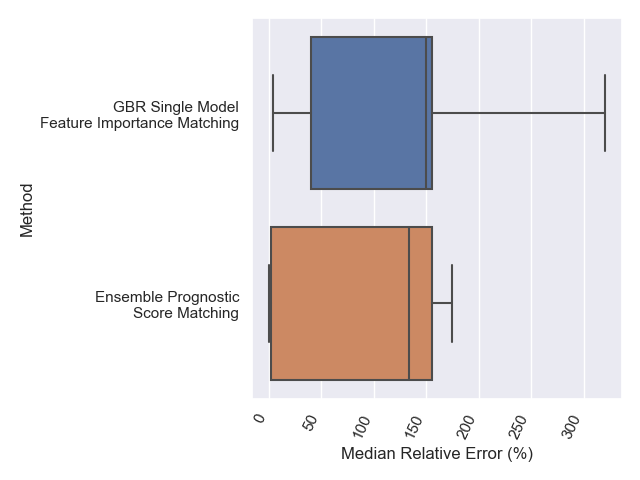
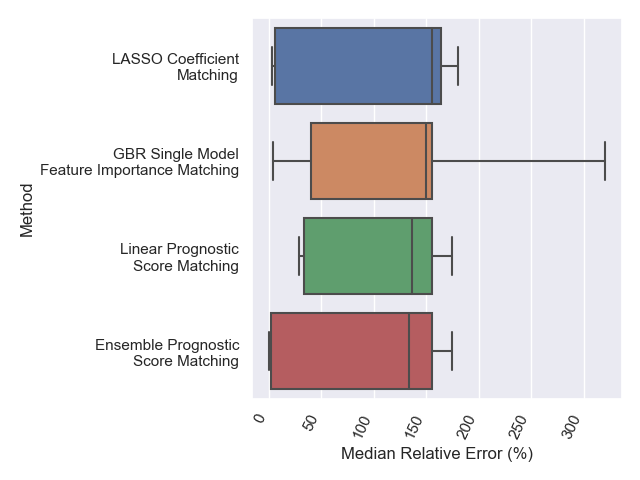
running on larger acic 2018 selection

diff --git a/Experiments/acic_error_and_runtime/cate_error.py b/Experiments/acic_error_and_runtime/cate_error.py
@@ -103,25 +103,45 @@ split_strategy = lcm.gen_skf  # save split strategy to use for all other methods
 with open(f'{save_folder}/split.pkl', 'wb') as f:
     pickle.dump(split_strategy, f)
 
-method_name = 'Tree Feature Importance Matching'
-start = time.time()
-with warnings.catch_warnings(record=True) as warning_list:
-    lcm = LCM_MF(outcome='Y', treatment='T', data=df_dummy_data,
-                 n_splits=n_splits, n_repeats=1,
-                 random_state=random_state)
-    lcm.gen_skf = split_strategy
-    lcm.fit(model='tree')
-    lcm.MG(k=k_est)
-    lcm.CATE(cate_methods=['mean'])
-times[method_name] = time.time() - start
-df_err = pd.concat([df_err,
-                    get_errors(lcm.cate_df[['avg.CATE_mean']],
-                               df_true[['TE']],
-                               method_name=method_name)
-                    ])
-print(f'\n{method_name} method complete: {time.time() - start}')
-summarize_warnings(warning_list, method_name)
-print()
+# method_name = 'Tree Feature Importance Matching'
+# start = time.time()
+# with warnings.catch_warnings(record=True) as warning_list:
+#     lcm = LCM_MF(outcome='Y', treatment='T', data=df_dummy_data,
+#                  n_splits=n_splits, n_repeats=1,
+#                  random_state=random_state)
+#     lcm.gen_skf = split_strategy
+#     lcm.fit(model='tree')
+#     lcm.MG(k=k_est)
+#     lcm.CATE(cate_methods=['mean'])
+# times[method_name] = time.time() - start
+# df_err = pd.concat([df_err,
+#                     get_errors(lcm.cate_df[['avg.CATE_mean']],
+#                                df_true[['TE']],
+#                                method_name=method_name)
+#                     ])
+# print(f'\n{method_name} method complete: {time.time() - start}')
+# summarize_warnings(warning_list, method_name)
+# print()
+#
+# method_name = 'GBR Feature Importance Matching'
+# start = time.time()
+# with warnings.catch_warnings(record=True) as warning_list:
+#     lcm = LCM_MF(outcome='Y', treatment='T', data=df_dummy_data,
+#                  n_splits=n_splits, n_repeats=1,
+#                  random_state=random_state)
+#     lcm.gen_skf = split_strategy
+#     lcm.fit(model='ensemble')
+#     lcm.MG(k=k_est)
+#     lcm.CATE(cate_methods=['mean'])
+# times[method_name] = time.time() - start
+# df_err = pd.concat([df_err,
+#                     get_errors(lcm.cate_df[['avg.CATE_mean']],
+#                                df_true[['TE']],
+#                                method_name=method_name)
+#                     ])
+# print(f'\n{method_name} method complete: {time.time() - start}')
+# summarize_warnings(warning_list, method_name)
+# print()
 
 method_name = 'GBR Feature Importance Matching'
 start = time.time()
@@ -130,27 +150,8 @@ with warnings.catch_warnings(record=True) as warning_list:
                  n_splits=n_splits, n_repeats=1,
                  random_state=random_state)
     lcm.gen_skf = split_strategy
-    lcm.fit(model='ensemble')
-    lcm.MG(k=k_est)
-    lcm.CATE(cate_methods=['mean'])
-times[method_name] = time.time() - start
-df_err = pd.concat([df_err,
-                    get_errors(lcm.cate_df[['avg.CATE_mean']],
-                               df_true[['TE']],
-                               method_name=method_name)
-                    ])
-print(f'\n{method_name} method complete: {time.time() - start}')
-summarize_warnings(warning_list, method_name)
-print()
-
-method_name = 'GBR Single Model Feature Importance Matching'
-start = time.time()
-with warnings.catch_warnings(record=True) as warning_list:
-    lcm = LCM_MF(outcome='Y', treatment='T', data=df_dummy_data,
-                 n_splits=n_splits, n_repeats=1,
-                 random_state=random_state)
-    lcm.gen_skf = split_strategy
-    lcm.fit(model='ensemble', separate_treatments=False)
+    lcm.fit(model='ensemble', params={'max_depth': 1},
+            separate_treatments=True)
     lcm.MG(k=k_est)
     lcm.CATE(cate_methods=['mean'])
 times[method_name] = time.time() - start
@@ -164,47 +165,48 @@ summarize_warnings(warning_list, method_name)
 print()
 
 
-method_name = 'Equal Weighted LASSO Matching'
-start = time.time()
-with warnings.catch_warnings(record=True) as warning_list:
-    lcm = LCM_MF(outcome='Y', treatment='T', data=df_dummy_data, n_splits=n_splits, n_repeats=1,
-                 random_state=random_state)
-    lcm.gen_skf = split_strategy
-    lcm.fit(model='linear', equal_weights=True)
-    lcm.MG(k=k_est)
-    lcm.CATE(cate_methods=['mean'])
-times[method_name] = time.time() - start
-df_err = pd.concat([df_err,
-                    get_errors(lcm.cate_df[['avg.CATE_mean']],
-                               df_true[['TE']],
-                               method_name=method_name)
-                    ])
-print(f'\n{method_name} method complete: {time.time() - start}')
-summarize_warnings(warning_list, method_name)
-print()
 
-if run_malts:
-    method_name = 'MALTS Matching'
-    start = time.time()
-    with warnings.catch_warnings(record=True) as warning_list:
-        m = pymalts.malts_mf('Y', 'T', data=df_data, discrete=binary + categorical,
-                             categorical=categorical,
-                             k_est=k_est,
-                             n_splits=n_splits, estimator='mean',
-                             smooth_cate=False,
-                             gen_skf=split_strategy, random_state=random_state)
-    times[method_name] = time.time() - start
-    df_err = pd.concat([df_err,
-                        get_errors(m.CATE_df[['avg.CATE']],
-                                   df_true[['TE']],
-                                   method_name=method_name)
-                        ])
-    print(f'\n{method_name} method complete: {time.time() - start}')
-    print(f'{method_name} complete: {time.time() - start}')
-    summarize_warnings(warning_list, method_name)
-    print()
-
-
+# method_name = 'Equal Weighted LASSO Matching'
+# start = time.time()
+# with warnings.catch_warnings(record=True) as warning_list:
+#     lcm = LCM_MF(outcome='Y', treatment='T', data=df_dummy_data, n_splits=n_splits, n_repeats=1,
+#                  random_state=random_state)
+#     lcm.gen_skf = split_strategy
+#     lcm.fit(model='linear', equal_weights=True)
+#     lcm.MG(k=k_est)
+#     lcm.CATE(cate_methods=['mean'])
+# times[method_name] = time.time() - start
+# df_err = pd.concat([df_err,
+#                     get_errors(lcm.cate_df[['avg.CATE_mean']],
+#                                df_true[['TE']],
+#                                method_name=method_name)
+#                     ])
+# print(f'\n{method_name} method complete: {time.time() - start}')
+# summarize_warnings(warning_list, method_name)
+# print()
+#
+# if run_malts:
+#     method_name = 'MALTS Matching'
+#     start = time.time()
+#     with warnings.catch_warnings(record=True) as warning_list:
+#         m = pymalts.malts_mf('Y', 'T', data=df_data, discrete=binary + categorical,
+#                              categorical=categorical,
+#                              k_est=k_est,
+#                              n_splits=n_splits, estimator='mean',
+#                              smooth_cate=False,
+#                              gen_skf=split_strategy, random_state=random_state)
+#     times[method_name] = time.time() - start
+#     df_err = pd.concat([df_err,
+#                         get_errors(m.CATE_df[['avg.CATE']],
+#                                    df_true[['TE']],
+#                                    method_name=method_name)
+#                         ])
+#     print(f'\n{method_name} method complete: {time.time() - start}')
+#     print(f'{method_name} complete: {time.time() - start}')
+#     summarize_warnings(warning_list, method_name)
+#     print()
+#
+#
 method_name = 'Linear Prognostic Score Matching'
 start = time.time()
 with warnings.catch_warnings(record=True) as warning_list:

diff --git a/src/linear_coef_matching.py b/src/linear_coef_matching.py
@@ -99,7 +99,6 @@ class LCM:
             else:
                 self.M = sum(M) / len(self.treatments_classes)
         else:
-<<<<<<< Updated upstream
             m.fit(np.concatenate([self.X, self.T.reshape(-1, 1)], axis=1),
                   self.Y)
             if return_scores:
@@ -112,56 +111,6 @@ class LCM:
         if return_scores:
             print(scores)
             return scores
-=======
-            if method == 'linear':
-                # model = linear.LassoCV(**params).fit(self.X[self.T == 0, :-1], self.Y[self.T == 0])
-                # M_hat = np.abs(model.coef_).reshape(-1,)
-                # print('Control Score:')
-                # print(model.score(self.X[self.T == 0, :-1], self.Y[self.T == 0]))
-                # print('Treatment Score:')
-                # print(model.score(self.X[self.T == 1, :-1], self.Y[self.T == 1]))
-                params = {'penalty': 'l1', 'solver': 'saga'}
-                model_C = linear.LogisticRegressionCV(**params).fit(self.X[self.T == 0, :-1], self.Y[self.T == 0])
-                model_T = linear.LogisticRegressionCV(**params).fit(self.X[self.T == 1, :-1], self.Y[self.T == 1])
-                print(f'Control Score: {model_C.score(self.X[self.T == 0, :-1], self.Y[self.T == 0])}')
-                print(f'Treatment Score: {model_T.score(self.X[self.T == 1, :-1], self.Y[self.T == 1])}')
-                mc = (np.abs(model_C.coef_).reshape(-1,) / np.sum(np.abs(model_C.coef_))) if \
-                    not np.all(model_C.coef_ == 0) else np.ones(self.p)/self.p
-                mt = (np.abs(model_T.coef_).reshape(-1,) / np.sum(np.abs(model_T.coef_))) if \
-                    not np.all(model_T.coef_ == 0) else np.ones(self.p)/self.p
-                M_hat = mc + mt
-                # model = linear.LassoCV(**params).fit(self.X, self.Y)
-                # M_hat = np.abs(model.coef_[:-1]).reshape(-1, )
-                # print('Score:')
-                # print(model.score(self.X, self.Y))
-            elif method == 'tree':
-                model = tree.DecisionTreeRegressor(**params).fit(self.X, self.Y)
-                M_hat = model.feature_importances_[:-1].reshape(-1,)
-            elif method == 'ensemble':
-                model_C = ensemble.GradientBoostingRegressor(random_state=self.random_state).fit(
-                    self.X[self.T == 0, :-1], self.Y[self.T == 0])
-                model_T = ensemble.GradientBoostingRegressor(random_state=self.random_state).fit(
-                    self.X[self.T == 1, :-1], self.Y[self.T == 1])
-                mc = (model_C.feature_importances_.reshape(-1,) / np.sum(model_C.feature_importances_)) if \
-                    not np.all(model_C.feature_importances_ == 0) else np.ones(self.p)/self.p
-                mt = (model_T.feature_importances_.reshape(-1,) / np.sum(model_T.feature_importances_)) if \
-                    not np.all(model_T.feature_importances_ == 0) else np.ones(self.p)/self.p
-                M_hat = mc + mt
-            else:
-                raise Exception(f'Fit method not supported.')
-            # if equal_weights:
-            #     M_hat = np.where(M_hat > 0, 1, 0)
-            self.M = (M_hat / np.sum(M_hat)) * self.p if not np.all(M_hat == 0) else np.ones(self.p)
-            if equal_weights:
-                print(f'Pre trim: {np.sum(self.M > 0)}')
-                self.M = np.where(self.M > 0.03*self.p, 1, 0)
-                print(f'Post trim: {np.sum(self.M > 0)}')
-        if return_score:
-            if double_model:
-                return model_C.score(self.X[self.T == 0, :-1], self.Y[self.T == 0]), \
-                       model_T.score(self.X[self.T == 1, :-1], self.Y[self.T == 1])
-            return model.score(self.X, self.Y)
->>>>>>> Stashed changes
 
     def get_matched_groups(self, df_estimation, k=10,
                            return_original_idx=False, check_est_df=False):

diff --git a/Experiments/acic_error_and_runtime/plotting/errors.py b/Experiments/acic_error_and_runtime/plotting/errors.py
@@ -11,12 +11,12 @@ all_folders = glob(f"{os.getenv('RESULTS_FOLDER')}/*/", recursive=True)
 plot_name = os.getenv('PLOT_NAME')
 q = 0.5
 methods = [
-    # 'LASSO Coefficient Matching',
+    'LASSO Coefficient Matching',
     # 'Tree Feature Importance Matching',
     # 'GBR Feature Importance Matching',
     'GBR Single Model Feature Importance Matching',
     # 'Equal Weighted LASSO Matching',
-    # 'Linear Prognostic Score Matching',
+    'Linear Prognostic Score Matching',
     'Ensemble Prognostic Score Matching',
     # 'DoubleML',
     # 'DRLearner',
